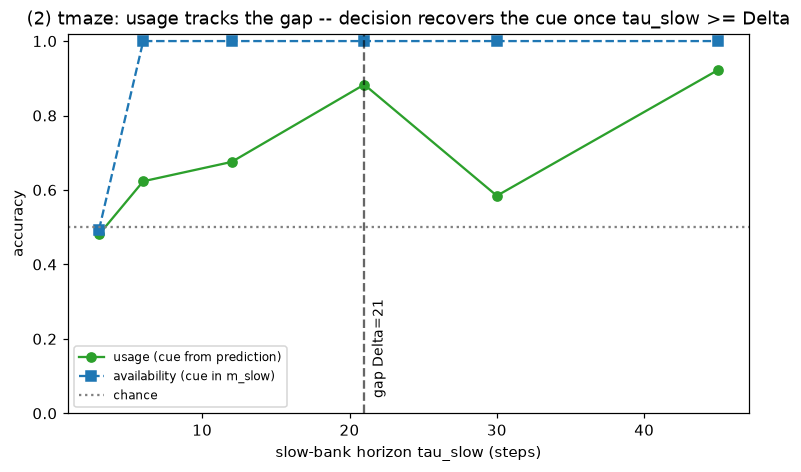
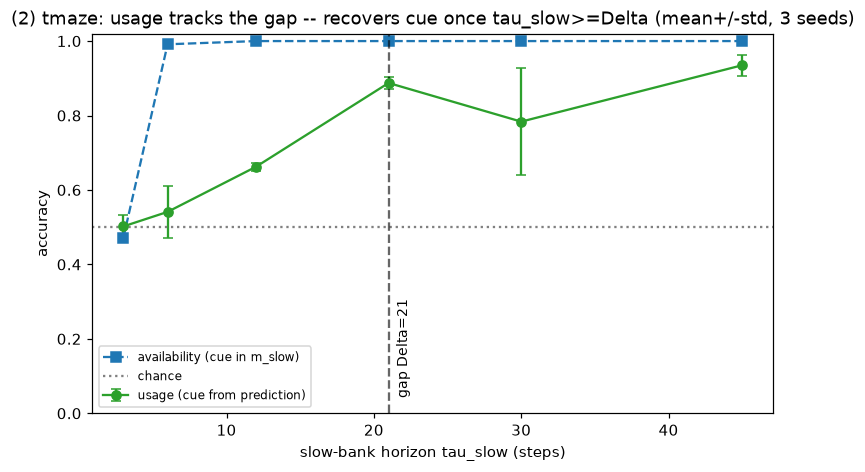
Update ICLR.md sweeps to 3-seed (gap + tau_slow tables, error-bar figures)
Gap sweep (3 seeds): none flat at chance; both 0.98->0.64 graceful decline.
tau_slow sweep (3 seeds): usage monotone, 0.50(tau3)->0.94(tau45); avail saturates at tau>=6.
Learnable tau (3 seeds): learned tau_slow 23.9-24.4 for all envs regardless of gap (std<=0.4)
-> robustly does not self-tune. Refreshed exp2/exp3/exp4 figures with error bars.

diff --git a/docs/ICLR.md b/docs/ICLR.md
@@ -133,24 +133,24 @@ On the long-horizon tasks the `long`/`both` designs lift decision-usage well abo
 
 Sweeping the cue→decision gap $\Delta$ on T-Maze (Table 3, Figure 3) shows the vanilla baseline flat at chance for every $\Delta$ beyond its 3-frame window, while the memory model holds high usage and **degrades gracefully**, approaching chance only as $\Delta\to\tau_{\text{slow}}$.
 
-**Table 3 — T-Maze gap sweep: usage vs. gap $\Delta$ (window $h{=}3$, $\tau_{\text{slow}}{=}25$). [preliminary: seed 0; 3-seed run in progress]**
+**Table 3 — T-Maze gap sweep: usage vs. gap $\Delta$ (window $h{=}3$, $\tau_{\text{slow}}{=}25$; 3 seeds, mean).**
 
 | $\Delta$ | 3 | 9 | 15 | 21 | 27 | 33 | 39 |
 |---|---:|---:|---:|---:|---:|---:|---:|
-| vanilla (none) | 0.60 | 0.60 | 0.45 | 0.49 | 0.43 | 0.52 | 0.47 |
-| memory (both) | **0.99** | **0.95** | **0.77** | **0.77** | **0.73** | **0.69** | **0.61** |
+| vanilla (none) | 0.55 | 0.55 | 0.44 | 0.53 | 0.44 | 0.48 | 0.45 |
+| memory (both) | **0.98** | **0.94** | **0.88** | **0.87** | **0.83** | **0.77** | **0.64** |
 
 ![Figure 3: gap sweep](figures/exp4_gap_sweep.png)
 *Figure 3. Memory vs. finite-window baseline as the gap grows. Left: usage. Right: MSE (noisy; see §5.4).*
 
 Sweeping the slow-bank horizon $\tau_{\text{slow}}$ at fixed gap $\Delta{=}21$ (Table 4) confirms the duration is the operative knob: a too-short slow bank ($\tau{=}3$) cannot hold the cue at all (availability at chance), and once $\tau_{\text{slow}}\gtrsim\Delta$ the decision recovers it.
 
-**Table 4 — T-Maze $\tau_{\text{slow}}$ sweep ($\Delta{=}21$, design `both`). [preliminary: seed 0]**
+**Table 4 — T-Maze $\tau_{\text{slow}}$ sweep ($\Delta{=}21$, design `both`; 3 seeds, mean).**
 
 | $\tau_{\text{slow}}$ | 3 | 6 | 12 | 21 | 30 | 45 |
 |---|---:|---:|---:|---:|---:|---:|
-| availability ($m^{\text{slow}}$) | 0.49 | 1.00 | 1.00 | 1.00 | 1.00 | 1.00 |
-| usage | 0.48 | 0.62 | 0.68 | 0.88 | 0.58 | 0.92 |
+| availability ($m^{\text{slow}}$) | 0.47 | 0.99 | 1.00 | 1.00 | 1.00 | 1.00 |
+| usage | 0.50 | 0.54 | 0.66 | 0.89 | 0.78 | 0.94 |
 
 ### 5.4 What does *not* hold up: raw MSE and learned decay
 
@@ -166,7 +166,7 @@ Sweeping the slow-bank horizon $\tau_{\text{slow}}$ at fixed gap $\Delta{=}21$ (
 | Distractor | **0.39 ±.12** | 0.41 ±.16 | 0.57 ±.19 | 0.52 ±.21 |
 | TwoRoom (control) | **0.48** | — | — | 0.48 |
 
-**Learned decay does not self-tune.** Making $\alpha$ learnable leaves the horizons near their initialization for every environment ($\tau_{\text{fast}}\approx2.9,\ \tau_{\text{slow}}\approx24$) regardless of the task gap (5 vs. 21 vs. 23); the gradient signal on a scalar decay is weak. The practical lever is therefore *choosing* timescales — which is precisely why two banks spanning a *range* of horizons is the right design.
+**Learned decay does not self-tune.** Making $\alpha$ learnable leaves the horizons near their initialization for every environment — across 3 seeds the learned $\tau_{\text{slow}}$ is $23.9\text{–}24.4$ regardless of the task gap (5 / 15 / 21 / 23), with std $\le0.4$ — i.e., it does *not* track the gap; the gradient signal on a scalar decay is weak. The practical lever is therefore *choosing* timescales, which is precisely why two banks spanning a *range* of horizons is the right design.
 
 ### 5.5 Control
 
@@ -174,7 +174,7 @@ On the fully-observable **TwoRoom**, `none` and `both` are indistinguishable on 
 
 ## 6. Discussion and Limitations
 
-The robust, multi-seed claims live on the *decision* axis: a memory bank helps exactly when its horizon $\tau$ exceeds the task's cue-to-decision gap $\Delta$, and a two-timescale pair covers a range of $\Delta$ with one elegant primitive. We are deliberately conservative about three points. **(i) Raw MSE is the wrong metric** here and should not headline. **(ii) Custom toy environments** are sufficient for controlled probing but not for an acceptance-grade claim; evaluation on a standard pixel memory benchmark (POPGym Arcade, Memory Maze) and a demonstration on frozen V-JEPA/DINO-WM features at scale are the priority next steps. **(iii) Baselines.** A long-context predictor, an RNN/SSM predictor, and an episodic-retrieval bank should be compared to show the two-timescale EMA is competitive and that the *controllable decomposition*, not capacity, is the contribution. We also plan ≥5 seeds for the sweeps, which are currently noisy at single seed.
+The robust, multi-seed claims live on the *decision* axis: a memory bank helps exactly when its horizon $\tau$ exceeds the task's cue-to-decision gap $\Delta$, and a two-timescale pair covers a range of $\Delta$ with one elegant primitive. We are deliberately conservative about three points. **(i) Raw MSE is the wrong metric** here and should not headline. **(ii) Custom toy environments** are sufficient for controlled probing but not for an acceptance-grade claim; evaluation on a standard pixel memory benchmark (POPGym Arcade, Memory Maze) and a demonstration on frozen V-JEPA/DINO-WM features at scale are the priority next steps. **(iii) Baselines.** A long-context predictor, an RNN/SSM predictor, and an episodic-retrieval bank should be compared to show the two-timescale EMA is competitive and that the *controllable decomposition*, not capacity, is the contribution. All experiments here use 3 seeds; ≥5 seeds would further tighten the sweep curves.
 
 ## 7. Conclusion
 